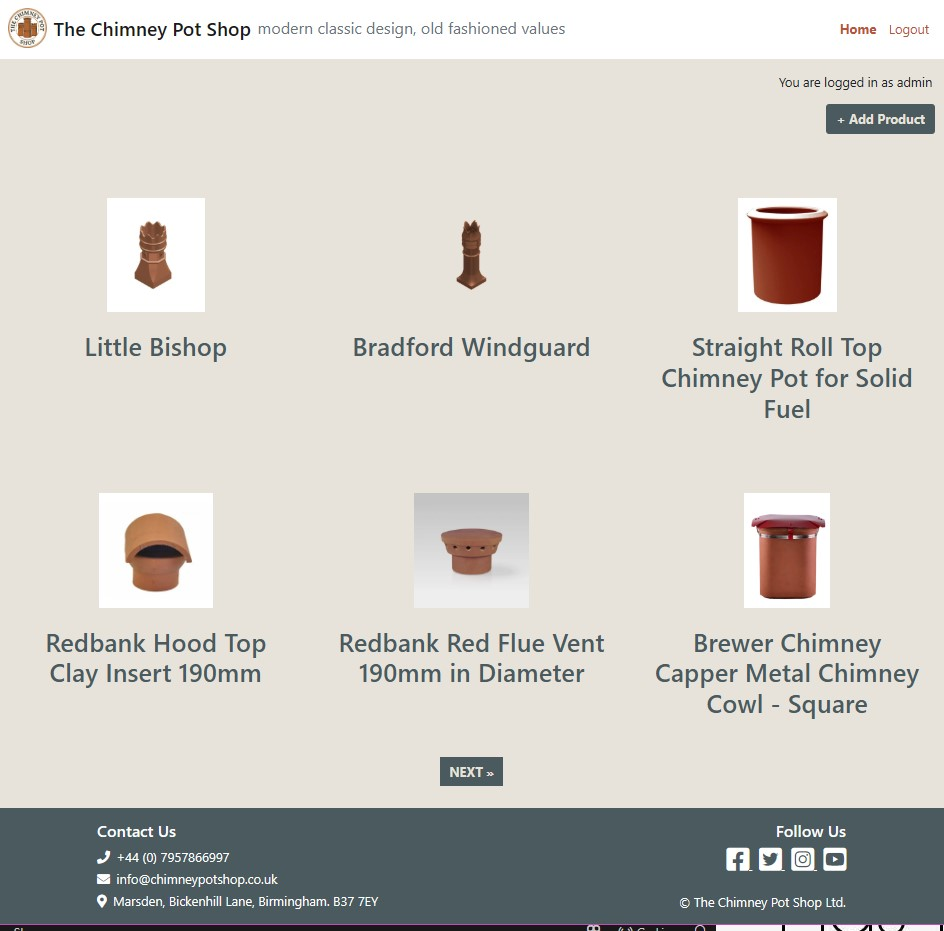
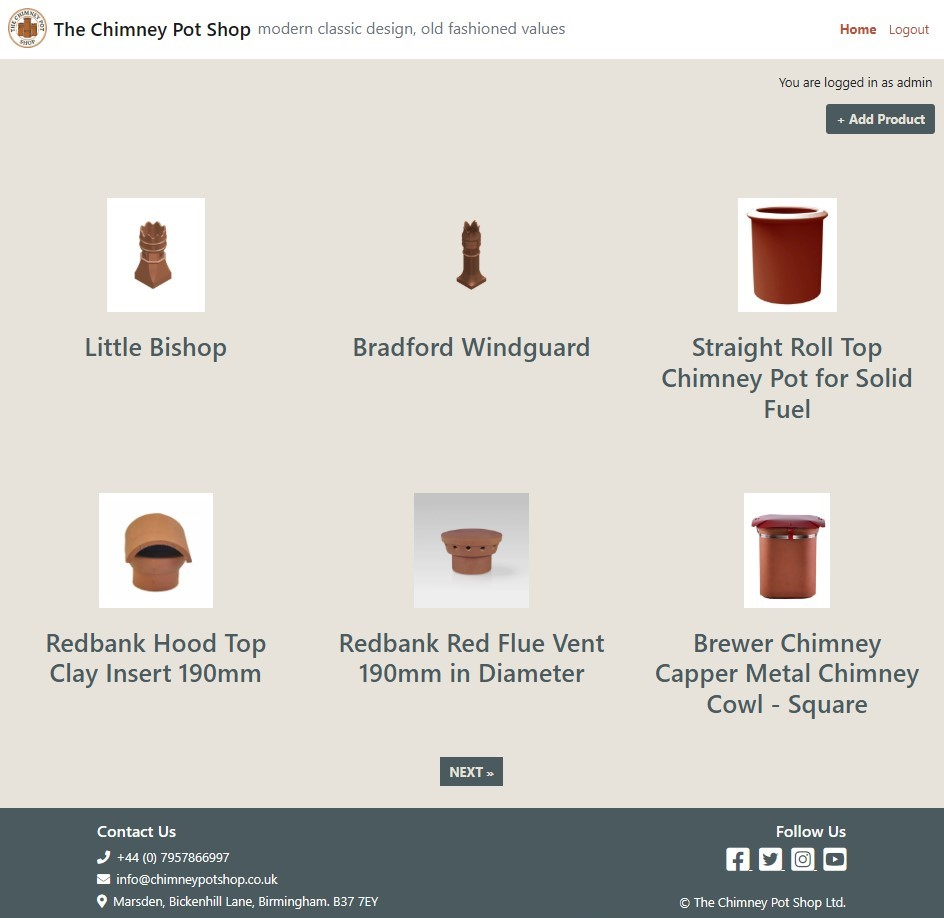
Spacing on ReadMe changed <h5> titles on footer to <h2> for accessibility

diff --git a/templates/base.html b/templates/base.html
@@ -106,13 +106,13 @@
         <div class="container">
             <div class="row">
                 <div class="col-md-6 text-md-start text-white mb-1 mb-md-0">
-                    <h5>Contact Us</h5>
+                    <h2>Contact Us</h2>
                     <p class="mb-1"><i class="fas fa-phone me-2"></i>+44 (0) 7957866997</p>
                     <p class="mb-1"><i class="fas fa-envelope me-2"></i>info@chimneypotshop.co.uk</p>
                     <p class="mb-0"><i class="fas fa-map-marker-alt me-2"></i>Marsden, Bickenhill Lane, Birmingham. B37 7EY</p>
                 </div>
                 <div class="col-md-6 text-end text-md-end text-white">
-                    <h5>Follow Us</h5>
+                    <h2>Follow Us</h2>
                     <a href="https://www.facebook.com/" target="_blank" rel="noopener noreferrer" aria-label="Visit our Facebook page" class="text-white">
                         <i class="fab fa-facebook-square ms-2 fa-2x"></i>
                     </a>

diff --git a/README.md b/README.md
@@ -43,9 +43,9 @@ The pagination will also change as more products are added.  It has been set at 
 
 ![Home page wireframe](assets/images/Homepage_wireframe.jpg)
 
-## product Detail Page Wireframe Design
+## Product Detail Page Wireframe Design
 
-![product detail wireframe](assets/images/product_wireframe.jpg)
+![product detail wireframe](assets/images/Product_wireframe.jpg)
 
 ## User Stories
 
@@ -176,13 +176,13 @@ However, the site also has the functionality to Create, Update and Delete produc
 In order to do this the site owner, or staff member would login using the admin credentials
 <br>
 
-The admin will then have access to this Add New Product Form:
+The admin will then have access to this Add New Product Form:<br>
 ![Add New product](assets/images/add_new_product_form.jpg)
 
 Admin can then add product title, image and content.  The default is set to 'Published', but can be changed to 'draft' if the admin doesn't want the product published straight away.<br><br>
 If there is no image available, a placeholder 'IMAGE COMING SOON' is displayed.<br>
 
-Admin can also update and delete any product. When logged in as admin, this displays at the bottom of each product detail page.
+Admin can also update and delete any product. When logged in as admin, this displays at the bottom of each product detail page.<br>
 ![Edit and Delete product](assets/images/edit_delete_product.jpg)
 
 Edit brings up the same form as add new product.<br>
@@ -351,8 +351,8 @@ In order to create a Heroku app:
    - CLOUDINARY_URL - the Cloudinary url for your image store
 
 Once the app setup is complete, click on the Deploy tab and:
-1. connect to the required GitHub account
-2. select the repository to deploy from
+1. Connect to the required GitHub account
+2. Select the repository to deploy from
 3. Click the Deploy Branch button to start the deployment.
 4. Once deployment finishes the app can be launched by clicking on the view button.
 
@@ -366,80 +366,68 @@ The live link can be found [_here_](https://the-chimney-pot-shop-3d063a689bfe.he
 - Python 3.12 installed
 - Visual Studio Code installed
 - Git installed
+- Use bash terminal
 
 #### Step-by-Step Instructions
 
-1. **Clone the Repository**
-   bash
+1. **Clone the Repository**<br>
+
    git clone https://github.com/yourusername/the-chimney-pot-shop.git
    cd the-chimney-pot-shop
    
 
-2. **Create a Virtual Environment**
-   bash
+2. **Create a Virtual Environment**<br>
    python -m venv venv
    
 
 3. **Activate the Virtual Environment**
    - **Windows:**
-     bash
-     venv\Scripts\activate
-     
+     source .ven/Scripts/activate
+    
    - **Mac/Linux:**
-     bash
-     source venv/bin/activate
-     
+     source venv/bin/activate  
 
 4. **Install Dependencies**<br>
-   bash<br>
    pip install -r requirements.txt
    
-
 5. **Create Environment Variables File**
    - Create a file called `env.py` in the root directory
    - **Make sure `env.py` is listed in your `.gitignore` file** (to prevent sensitive data being pushed to GitHub)
 
    - Add the following (replace with your own values):<br>
-     python
 
      import os
      
-     os.environ.setdefault("SECRET_KEY", "your-secret-key-here")
-     os.environ.setdefault("DATABASE_URL", "your-database-url-here")
-     os.environ.setdefault("CLOUDINARY_URL", "your-cloudinary-url-here")
-     os.environ.setdefault("DEBUG", "True")
+     os.environ.setdefault("SECRET_KEY", "your-secret-key-here")<br>
+     os.environ.setdefault("DATABASE_URL", "your-database-url-here")<br>
+     os.environ.setdefault("CLOUDINARY_URL", "your-cloudinary-url-here")<br>
+     os.environ.setdefault("DEBUG", "True")<br>
      
 
 6. **Check Django Settings**<br>
 Make sure:
-
-- manage.py exists in the project root
-- settings.py is correctly configured
-- DEBUG = True (for local use)
+   - manage.py exists in the project root
+   - settings.py is correctly configured
+   - DEBUG = True (for local use)
 
 7. **Run Database Migrations**<br>
-   bash<br>
    python manage.py migrate
    
-
 8. **Create a Superuser (Admin Account)**<br>
-   bash<br>
    python manage.py createsuperuser
    
    Follow the prompts to create your admin account.
 
 9. **Collect Static Files**<br>
-   bash<br>
    python manage.py collectstatic --noinput
    
 
 10. **Run the Development Server**<br>
-   bash<br>
    python manage.py runserver
    
 
 11. **Access the Site**
-    - In the terminal press `CTRL` and click on the http: link shown.
+    - In the terminal press `CTRL` and click on the http: link shown. <br>OR
     - Open your browser and go to: `http://127.0.0.1:8000/`
     - Admin panel: `http://127.0.0.1:8000/admin/`
 
@@ -450,9 +438,7 @@ Press `Ctrl+C` in the terminal to stop the development server.
 
 - Command not found: Python is not installed or not in PATH
 - Module not found: Virtual environment not activated
-- Port already in use: Stop other servers or run
-
-bash<br>
+- Port already in use: Stop other servers or run:<br>
 python manage.py runserver 8001
 
 ## Credits
